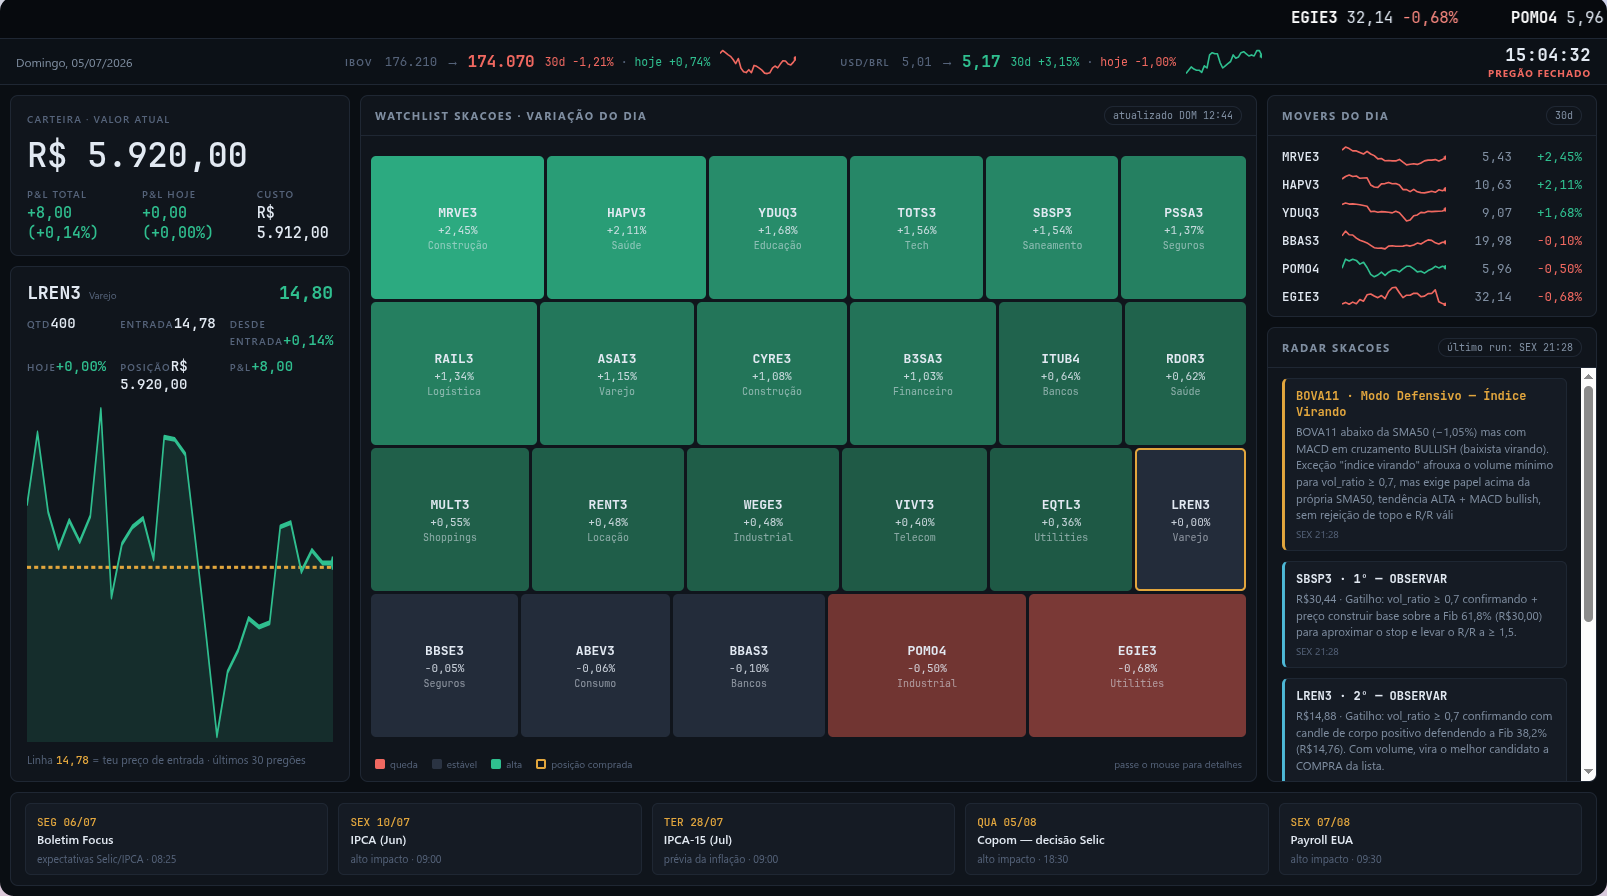
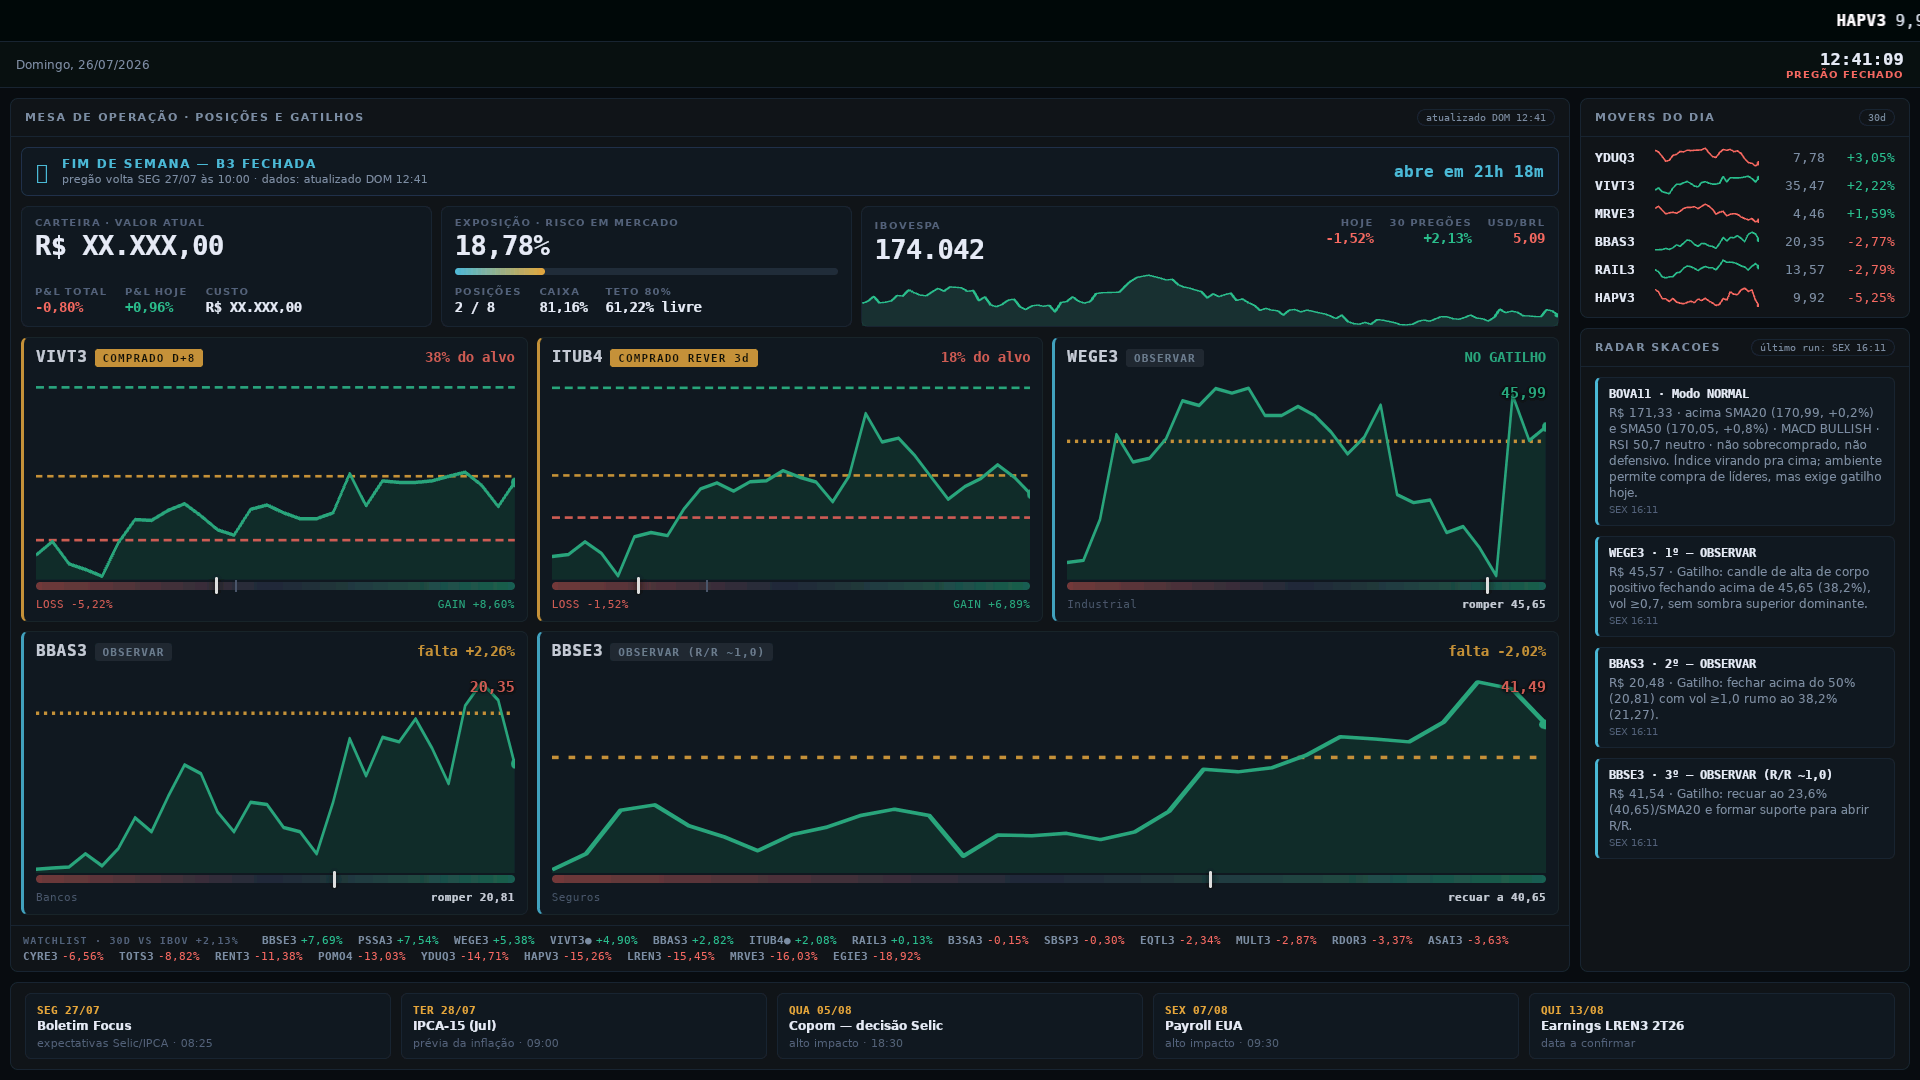
docs: README e screenshot do layout novo; inclui check.js
- README reescrito: seção "Como ler a tela" (cockpit, mesa, watchlist, tabela
  posição vs candidata, e por que a janela é de 30 pregões), doc dos campos
  numéricos do radar (ref/tg/td/sl/tp) que geram os cards de candidata, e
  aviso de que a quebra de parser falha em silêncio servindo cache;
- exemplo.png atualizado pro layout novo (máscara de valores ligada);
- check.js: valida o HTML gerado sem browser, executando o script do painel
  num DOM mínimo. Documentado nos guardrails como passo obrigatório depois
  de mexer no template;
- fontes do header do card maiores (ticker 15,5 / status 14 / badge 10,5).

diff --git a/check.js b/check.js
@@ -1,0 +1,54 @@
+/* Valida o painel gerado sem precisar de browser.
+ *
+ *   node check.js painel-acoes.html
+ *
+ * Executa o <script> do painel num DOM mínimo (vm + shim) e reporta erro de
+ * execução com stack, o HTML que cada bloco gerou e um teste de undefined/NaN
+ * na saída. Um erro de JS no template deixa a tela em branco em silêncio —
+ * rode isto antes de publicar. */
+const fs = require('fs'), vm = require('vm');
+const file = process.argv[2];
+const html = fs.readFileSync(file, 'utf8');
+const code = html.match(/<script>([\s\S]*)<\/script>/)[1];
+
+const store = {};
+function el(id) {
+  if (store[id]) return store[id];
+  const e = {
+    id, innerHTML: '', textContent: '', className: '', outerHTML: '',
+    style: {}, dataset: {},
+    addEventListener() {}, closest() { return null; },
+    getBoundingClientRect: () => ({ width: 100, height: 50 }),
+  };
+  return (store[id] = e);
+}
+const document = {
+  getElementById: el,
+  querySelector: (s) => el('q:' + s),
+  querySelectorAll: () => [],
+  createElement: () => el('tmp'),
+  addEventListener() {},
+};
+const sandbox = {
+  document, console,
+  window: {}, innerWidth: 1920, innerHeight: 1080,
+  location: { pathname: '/x', replace() {} },
+  setInterval: () => 0, setTimeout: () => 0,
+  Date, Math, JSON, Object, Array, Number, String, Intl,
+};
+sandbox.window = sandbox;
+try {
+  vm.runInNewContext(code, sandbox, { filename: 'painel.js' });
+} catch (e) {
+  console.error('ERRO DE EXECUCAO:', e.stack);
+  process.exit(1);
+}
+const strip = (s) => s.replace(/<[^>]+>/g, ' ').replace(/\s+/g, ' ').trim();
+for (const id of ['desk', 'wl', 'pv', 'expv', 'ibv', 'ibchart', 'movers', 'posPanel']) {
+  const h = store[id] ? store[id].innerHTML : '';
+  console.log(`\n### ${id} (${h.length} chars)\n` + strip(h).slice(0, 700));
+}
+console.log('\n### rs-ref:', store['rs-ref'] && store['rs-ref'].textContent);
+console.log('### undefined/NaN no output:',
+  ['desk', 'wl', 'pv', 'expv', 'ibv', 'ibchart', 'movers', 'posPanel']
+    .filter((id) => /undefined|NaN/.test(store[id] ? store[id].innerHTML : '')) .join(', ') || 'nenhum');

diff --git a/README.md b/README.md
@@ -12,7 +12,7 @@ Dashboard dark de carteira B3 pensado pra ficar aberto numa tela dedicada (TV, k
 git clone https://github.com/cascodigital/b3-portfolio-dashboard
 cd b3-portfolio-dashboard
 
-# 1. sua carteira: edite data/carteira.json (ticker, qtd, preço de entrada)
+# 1. sua carteira: edite data/carteira.json (ticker, qtd, entrada e, se tiver, stop/alvo)
 # 2. sua watchlist: edite data/acoes.txt (um ticker B3 por linha)
 
 python3 build.py --no-push
@@ -37,6 +37,26 @@ build.py  ──►  busca cotações (Yahoo Finance, sem token)
 ```
 
 O HTML final é estático e auto-contido — relógio e status de pregão rodam em JS ao vivo; cotações mudam a cada build. A página **se recarrega sozinha a cada 5 minutos** pra pegar o build mais novo do servidor — essencial em TV/kiosk, onde ninguém aperta F5. Com o timer de 15 min, a latência máxima entre editar a carteira e ver na tela é ~20 min.
+
+## Como ler a tela
+
+**Cockpit** (topo) — três blocos: carteira (valor, P&L total, P&L do dia, custo), exposição (posições a mercado sobre o capital, com gauge medido contra o teto de 80% da estratégia, contador de posições, caixa e teto livre) e o índice (valor, dia, 30 pregões, dólar e gráfico de 120 pregões).
+
+**Mesa de operação** (centro) — até 6 cards, posições primeiro e candidatas do radar depois, cada um com 30 pregões e os níveis desenhados. A grade se ajusta à quantidade e o último card estica pra não deixar buraco na linha final.
+
+| | Posição | Candidata do radar |
+|---|---|---|
+| Borda | âmbar | azul |
+| Badge | `COMPRADO D+N`, `VENDIDO`, `TIME STOP` | `OBSERVAR`, `COMPRA` |
+| Barra | stop → alvo, traço branco = preço agora, traço cinza = entrada | aproximação até o gatilho |
+| Rótulo | `N% do alvo` | `falta ±X%` ou `NO GATILHO` |
+| Rodapé | `LOSS`/`GAIN` com a distância até cada nível | setor e o nível a romper/recuar |
+
+Por que 30 pregões: com time stop de 10, a operação ocupa o último terço do desenho e o resto é a estrutura que justificou a entrada. Encurtar a janela **piora** — o eixo é travado por stop e alvo, então uma série mais curta ocupa uma fração menor dele e fica mais achatada.
+
+**Watchlist** (rodapé) — todos os tickers ordenados por força relativa de 30 pregões contra o índice, `●` marcando posição aberta. É acompanhamento, não decisão: por isso é uma faixa de texto e não um treemap ocupando meia tela.
+
+**Privacidade** — `MASK_PRIVATE_VALUES` no topo do `<script>` do `template.html`. Em `true`, some com todo valor em reais (patrimônio, custo, P&L monetário, preços de entrada e OCO) e mantém só percentuais e quantidades — útil em tela que fica ligada num ambiente compartilhado. O screenshot acima está com a máscara ligada.
 
 ## Carteira (`data/carteira.json`)
 
@@ -93,21 +113,32 @@ systemctl --user enable --now painel-acoes.timer
 
 ### Radar (opcional)
 
-O quadro "radar" exibe picks de uma análise diária externa. Se você tem algum job que gera um HTML de análise, aponte `RADAR_HTML_FILE` pra ele e adapte `parse_radar()` ao seu formato — ou simplesmente edite `data/radar.json` na mão:
+O radar alimenta duas coisas: o quadro de texto na coluna direita **e** os cards de candidata da mesa. Se você tem um job que gera um HTML de análise diária, aponte `RADAR_HTML_FILE` pra ele e adapte um dos parsers ao seu formato — ou edite `data/radar.json` na mão:
 
 ```json
-{"generatedAt": "2026-07-05T15:45", "items": [
-  {"t": "LREN3", "kind": "buy", "title": "1º — COMPRA", "body": "R$ 15,20 · Alvo +6% · Stop -3%"}
+{"generatedAt": "2026-07-26T15:45", "items": [
+  {"t": "LREN3", "kind": "buy", "title": "1º — COMPRA", "body": "R$ 15,20 · Alvo +6% · Stop -3%",
+   "ref": 15.20, "tp": 16.11, "sl": 14.74},
+  {"t": "WEGE3", "kind": "info", "title": "2º — OBSERVAR", "body": "R$ 45,57 · Gatilho: fechar acima de 45,65",
+   "ref": 45.57, "tg": 45.65, "td": "up"}
 ]}
 ```
 
-`kind`: `buy` (verde), `warn` (âmbar), `info` (neutro). Sem radar configurado, o quadro mostra um aviso e o painel funciona normal.
+- `kind` — `buy` (verde), `warn` (âmbar), `info` (neutro). Define só a cor no quadro de texto.
+- **Campos numéricos são o que gera o card na mesa.** Sem nenhum deles, o pick aparece só no texto.
+  - `ref` — preço no momento da análise; vira a barra de desvio quando não há mais nada;
+  - `tg` + `td` — preço do gatilho e direção: `up` dispara rompendo pra cima, `down` dispara recuando até o nível. **A direção importa**: sem ela, um gatilho de recuo é lido como já atingido só porque o preço está acima;
+  - `sl` / `tp` — stop e alvo; com os dois, o card ganha a barra completa stop→alvo.
+- O build traz dois parsers de HTML (`parse_radar_v2` e o `parse_radar` legado) escritos contra formatos de e-mail específicos. Ele tenta o v2, cai no legado, e se ambos falharem usa o cache. **Isso falha em silêncio**: o painel continua bonito servindo dados velhos. Confira o carimbo "último run" no quadro do radar — se ele parar de acompanhar a data, seu parser quebrou.
+
+Sem radar configurado, o quadro mostra um aviso e o painel funciona normal.
 
 ## Arquivos
 
 ```
 build.py          gerador (stdlib only)
 template.html     visual — edite aqui pra mudar o layout
+check.js          valida o painel gerado sem browser (node check.js painel-acoes.html)
 events.json       eventos datados; Focus/Payroll são calculados
 data/             watchlist + carteira (exemplos incluídos)
 systemd/          service + timer de exemplo
@@ -119,6 +150,7 @@ systemd/          service + timer de exemplo
 - Posição sem cotação disponível também aborta.
 - Radar indisponível cai pro cache (`data/radar.json`) — o painel nunca quebra, só fica velho.
 - Sem chamadas de IA, sem API paga, sem token: o ciclo inteiro é Yahoo Finance público + arquivos locais.
+- **Ao editar o `template.html`, valide antes de publicar**: um erro de JS deixa a tela em branco sem aviso nenhum. Com browser: `google-chrome --headless=new --dump-dom painel-acoes.html 2>&1 | grep -i error`. Sem browser: `node check.js painel-acoes.html`, que executa o script do painel num DOM mínimo e reporta o erro com stack, mais o HTML que cada bloco gerou.
 
 ## ⚠ Disclaimer
 
